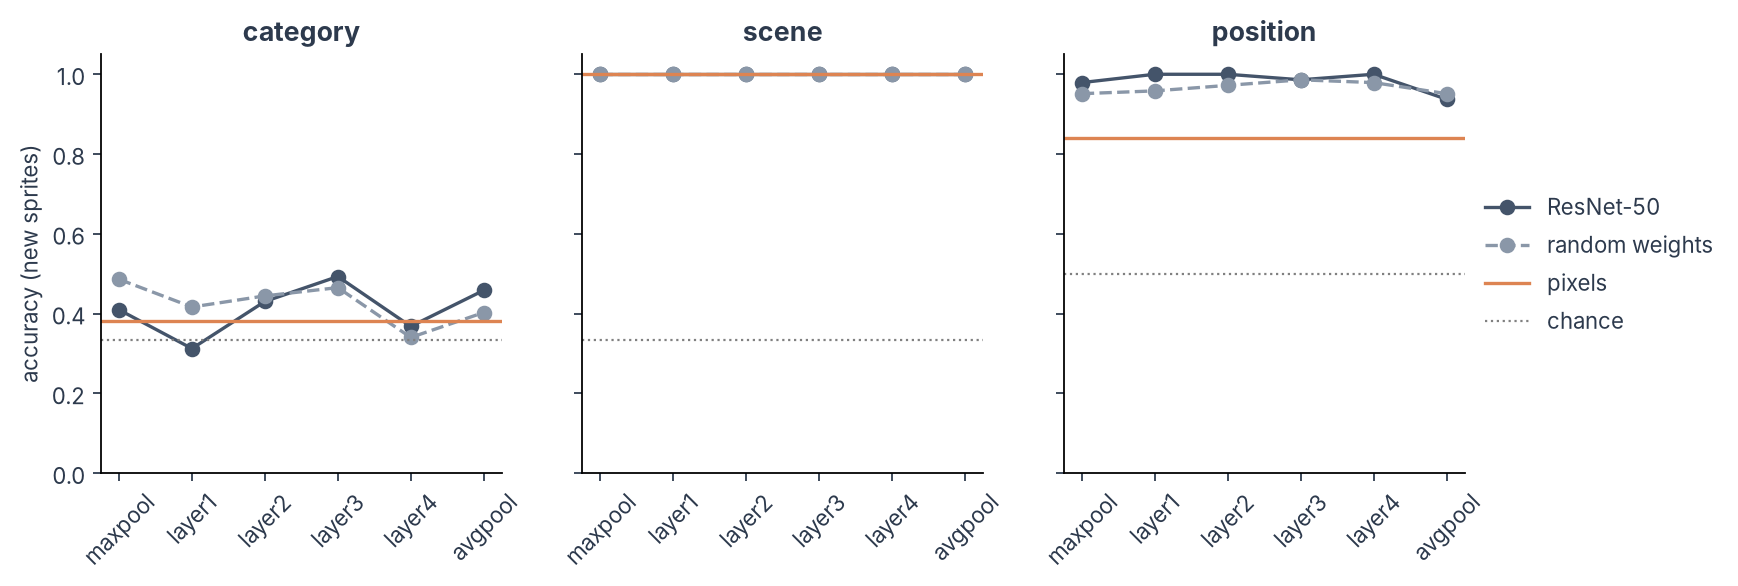
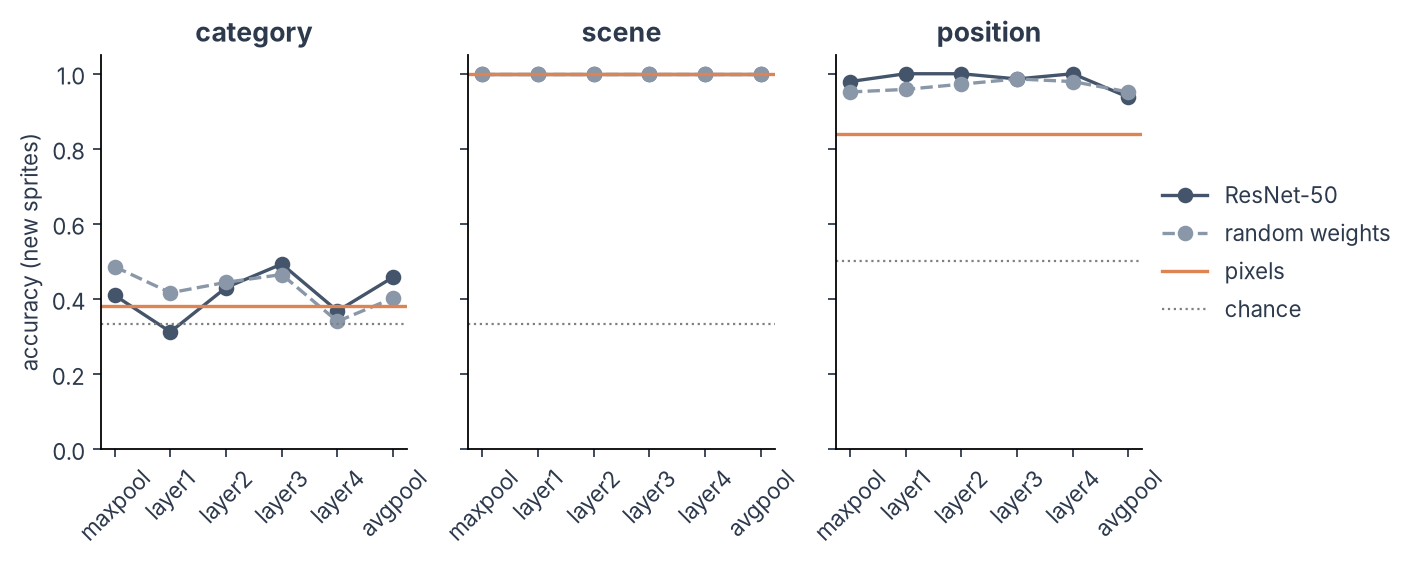
Tidy the DNN figures and train page (#397)
Draw the model decoding figure smaller so its labels are readable, keep the RSA arrow in the overview clear of the model RDM, and drop the AlexNet fine-tuning sentence from the ResNet-50 train page.

diff --git a/docs/research/dnn/dnn-train.md b/docs/research/dnn/dnn-train.md
@@ -242,7 +242,7 @@ Averaged over three seeds, every strategy recognises the category of a new sprit
 
 Eighteen sprites are too few for a network to learn what makes a critter a critter. The scenes and positions no longer give the category away, so the network has to generalise from the sprites alone, and with this little data it mostly memorises them.
 
-On natural images, fine-tuning has a clear advantage, in training time and often in accuracy. A pretrained network has already learned features that extract meaning from images, and the statistics of natural images, so it starts close to a good solution for a visual task and only has to adjust. A network trained from scratch has to learn all of this from your images alone. In our runs on the ants and bees of the [PyTorch transfer-learning tutorial](https://pytorch.org/tutorials/beginner/transfer_learning_tutorial.html), photos close to ImageNet, fine-tuned AlexNet was about 90% correct after a single epoch, while the same network trained from scratch reached 70% after 15.
+On natural images, fine-tuning has a clear advantage, in training time and often in accuracy. A pretrained network has already learned features that extract meaning from images, and the statistics of natural images, so it starts close to a good solution for a visual task and only has to adjust. A network trained from scratch has to learn all of this from your images alone.
 
 !!! tip "Want to train on real photos?"
     The code above works on any image dataset. For photos, load the images with `ImageFolder` instead of the manifest.

diff --git a/docs/research/dnn/dnn-model.md b/docs/research/dnn/dnn-model.md
@@ -349,7 +349,7 @@ print(p_category.round(3))
 ??? example "Plot decoding by layer"
 
     ```python
-    fig, axes = plt.subplots(1, 3, figsize=(11, 3.4), sharey=True)
+    fig, axes = plt.subplots(1, 3, figsize=(8.4, 3.2), sharey=True)
     for ax, name in zip(axes, properties):
         ax.plot(layers, decoding.loc[layers, name], "o-", color="#44546A", label="ResNet-50")
         ax.plot(layers, decoding.loc[[f"random {layer}" for layer in layers], name], "o--", color="#8A97A8",
